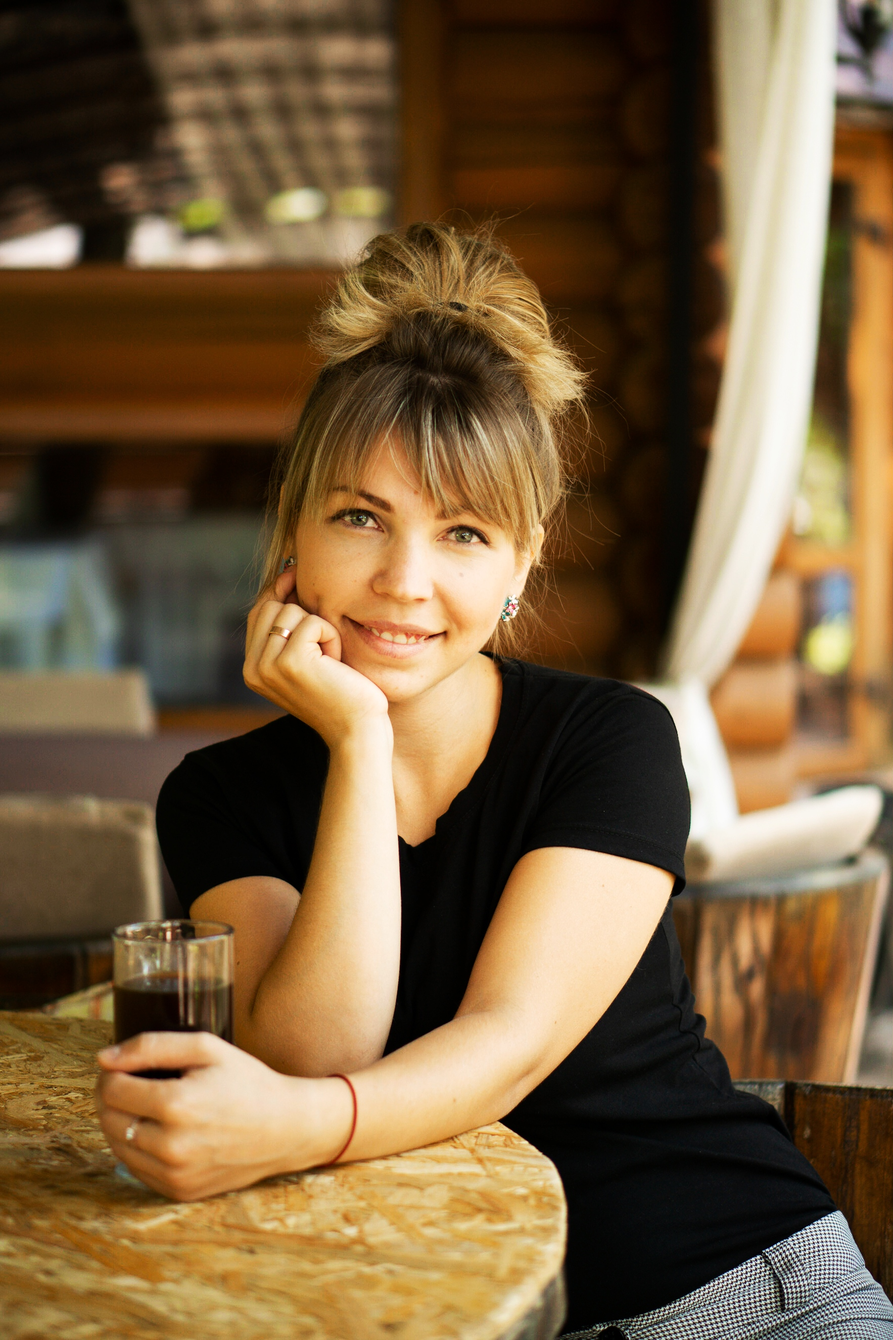
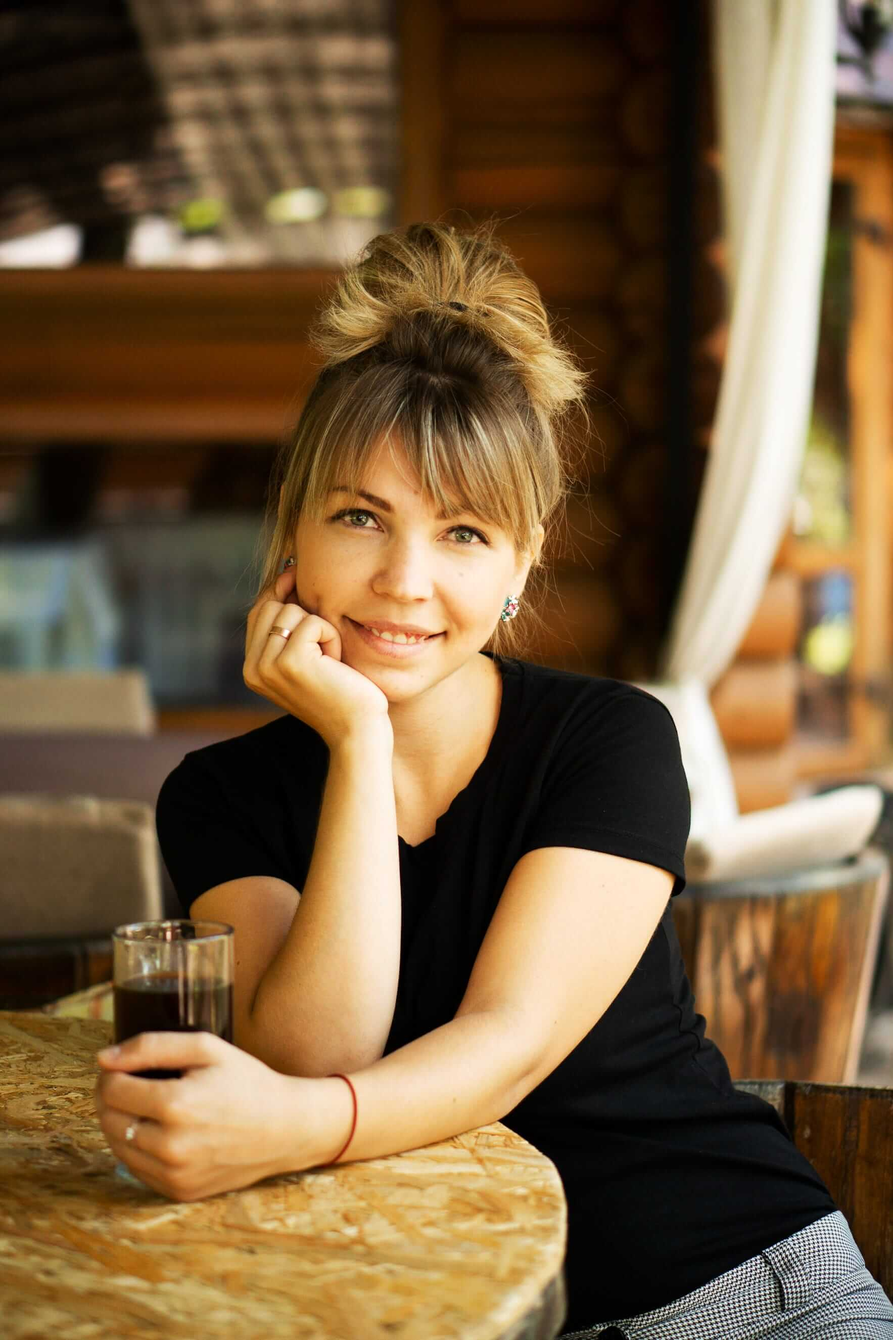
video and imgs optimization

Changed region(s): [[0.6848, 0.8974, 0.996, 1.0]]

diff --git a/css/style.min.css b/css/style.min.css
@@ -1,1 +1,1 @@
-@font-face{font-family:CODELight;src:url(../fonts/CODE_Light.otf)}body,html{font-size:14px;overflow-x:hidden;max-width:100vw;margin:0;padding:0}html{scroll-behavior:smooth}.header-block{-webkit-transition:background .2s ease-out;transition:background .2s ease-out}.header-navbar{width:100vw;display:-webkit-box;display:-ms-flexbox;display:flex}.header-socials{text-align:start;align-self:center}.header-socials-items{display:inline-flex}.header-socials-items a{padding-right:20px;color:#000;text-decoration:none}.header-socials-items i{font-size:3em;-webkit-transition:all ease .3s;transition:all ease .3s}.header-socials-items .fa-skype:focus,.header-socials-items .fa-skype:hover{color:#00aff0}.header-socials-items .fa-phone:focus,.header-socials-items .fa-phone:hover{color:#59267c}.header-socials-items .fa-envelope-o:focus,.header-socials-items .fa-envelope-o:hover{color:#d44638}.header-logo{text-align:center;font-family:CODELight;color:#6e535b;font-size:4em}.header-logo a{text-decoration:none;color:inherit;cursor:pointer}.header-languages{font-family:'Yeseva One',cursive;font-size:1em;align-self:center;text-align:end}.header-languages a{position:relative;color:#000;cursor:pointer;text-decoration:none;-webkit-transition:all ease .3s;transition:all ease .3s}.header-languages a:focus,.header-languages a:hover{color:#6e535b}.header-languages img{height:1.7em;width:auto;transition:all .3s ease}.header-languages img:hover{transform:scale(1.5)}.navbar{font-family:'Yeseva One',cursive;font-size:1.6em;padding-bottom:10px}.navbar-nav a{position:relative;color:#000;cursor:pointer;text-decoration:none}.navbar-nav a:after{display:block;position:absolute;top:50px;left:50%;-webkit-transform:translateX(-50%);transform:translateX(-50%);width:0;height:2px;background-color:#6e535b;content:"";-webkit-transition:.4s ease-in;transition:.4s ease-in}.navbar-nav a:hover{color:#6e535b}.navbar-nav a:hover::after{width:100%}.navbar-nav a.active{color:#6e535b}.navbar-nav a.active:after{display:block;position:absolute;top:50px;left:50%;-webkit-transform:translateX(-50%);transform:translateX(-50%);height:2px;background-color:#6e535b;content:"";-webkit-transition:.4s ease-in;transition:.4s ease-in;width:100%}.fa-align-justify{font-size:1.8em;line-height:1.8em}.home{display:grid;cursor:default;background-image:url(../img/bg.jpg);background-attachment:fixed;background-position:center;background-size:cover;height:100vh}.home-content{padding:100px;display:grid;justify-items:center;-ms-flex-line-pack:center;align-content:center}.home-content h3{text-align:center;font-size:10em;color:#6e535b;font-family:CODELight;text-transform:uppercase}.home-content h1{text-align:center;font-size:3em;color:#6e535b;font-family:Ubuntu,sans-serif}.about-me{display:grid;background-position:left bottom;background-size:cover;background-color:#f3eeee;min-height:100vh;width:100vw}.about-me-container{-ms-flex-line-pack:center;align-content:center;-webkit-box-align:center;-ms-flex-align:center;align-items:center;justify-self:center}.about-me-container strong{font-weight:900;font-size:1.1em}.about-me-photo{-webkit-box-pack:center;-ms-flex-pack:center;justify-content:center;padding:50px 0;align-self:center}.about-me-photo img{border-radius:50%;width:100%}.about-me-content{font-size:1.5em;color:#000;font-family:Ubuntu,sans-serif;text-align:justify}.about-me-content h2{font-family:'Yeseva One',cursive;color:#6e535b;text-align:center;padding:75px 0;font-size:2.5em}.about-me-content p{overflow-y:hidden}.advantages{display:grid;background-image:url(../img/bg.jpg);background-position:left bottom;background-size:cover;background-color:#f3eeee;min-height:100vh;width:100vw}.advantages-container{padding:0;margin:0;display:grid;grid-template-columns:1fr 1fr}.advantages-container-photo{width:50vw;height:auto;padding:0;margin:0}.advantages-container-photo img{max-width:100%;max-height:100%;height:-moz-available;height:-webkit-fill-available;height:fill-available;float:right;border-left:5px solid #6e535b}.advantages-container-content{align-content:center}.advantages-container-content-list{list-style:none;display:grid;grid-template-rows:repeat(6,1fr)}.advantages-container-content-list p{color:#000;font-family:Ubuntu,sans-serif;font-size:1.5em}.for-whom{display:grid;background-position:left bottom;background-color:#f3eeee;background-size:cover;min-height:100vh;width:100vw}.for-whom-content{-webkit-box-pack:justify;-ms-flex-pack:justify;justify-content:space-between;text-align:justify;display:-webkit-inline-box;display:-ms-inline-flexbox;display:inline-flex;-webkit-box-align:center;-ms-flex-align:center;align-items:center;-ms-flex-item-align:center;align-self:center;padding:50px 70px;-webkit-transition:ease-in .5s;transition:ease-in .5s}.for-whom-content:focus,.for-whom-content:hover{background-color:#fff;cursor:pointer;-webkit-transform:scale(1.1,1.1);transform:scale(1.1,1.1)}.for-whom-container h3{text-align:center;font-family:'Yeseva One',cursive;color:#6e535b;font-size:3em}.for-whom-container span{text-align:center;color:#000;font-family:Ubuntu,sans-serif;font-size:1.7em}.for-whom-ico{display:grid;-webkit-box-pack:center;-ms-flex-pack:center;justify-content:center;align-self:center;font-size:14em;padding:inherit}.how-we-work{background-image:url(../img/bg.jpg);background-position:left bottom;background-color:#f3eeee;background-size:cover;min-height:100vh;width:100vw}.how-we-work-container{display:grid;grid-template-columns:1fr 1fr}.how-we-work-container-photo{width:50vw;height:auto;padding:0;margin:0}.how-we-work-container-photo img{max-width:100%;max-height:100%;height:-moz-available;height:-webkit-fill-available;height:fill-available;border-right:5px solid #6e535b}.how-we-work-container-content{align-content:center}.how-we-work-container-content-list{list-style:none;display:grid;grid-template-rows:repeat(6,1fr)}.how-we-work-container-content-list h3{font-family:'Yeseva One',cursive;color:#6e535b;font-size:2.2em}.how-we-work-container-content-list p{color:#000;font-family:Ubuntu,sans-serif;font-size:1.5em}.feedback{display:grid;background-position:left bottom;background-size:cover;background-color:#f3eeee;min-height:100vh;width:100vw}.feedback-content{-webkit-box-pack:justify;-ms-flex-pack:justify;justify-content:space-between;text-align:justify;display:-webkit-inline-box;display:-ms-inline-flexbox;display:inline-flex;-webkit-box-align:center;-ms-flex-align:center;align-items:center;-ms-flex-item-align:center;align-self:center;padding:50px 75px;-webkit-transition:ease-in .5s;transition:ease-in .5s}.feedback-content:focus,.feedback-content:hover{background-color:#fff;cursor:pointer;-webkit-transform:scale(1.1,1.1);transform:scale(1.1,1.1);z-index:999}.feedback-container h3{text-align:center;font-family:'Yeseva One',cursive;color:#6e535b;font-size:2.5em}.feedback-container span{text-align:center;color:#000;font-family:Ubuntu,sans-serif;font-size:1.3em;font-style:italic}.feedback-container img{width:75%;height:auto;border-right:3px solid #6e535b;border-radius:50%}.feedback-img{border-left:5px solid #6e535b;text-align:center}.price{display:grid;background-image:url(../img/bg.jpg);background-position:left bottom;background-size:cover;background-color:#f3eeee;width:100vw}.price-container{padding:50px 20px;list-style:none}.price-content{padding-top:20px;padding-bottom:20px}.price-content:focus .price-thumbnail,.price-content:hover .price-thumbnail{background-color:#6e535b;color:#fff;-webkit-transform:scale(1.1,1.1);transform:scale(1.1,1.1);z-index:999}.price-thumbnail{background-color:#6e535b;text-align:center;-webkit-transition:all ease .4s;transition:all ease .4s;margin:0;padding:0;border:0;border-radius:20px}.price-thumbnail-content{background-color:#6e535b;font-family:'Yeseva One',cursive;padding:0;border-radius:20px;border-bottom-left-radius:0;border-bottom-right-radius:0;color:#fff}.price-thumbnail h4{margin:20px;padding-bottom:40px;color:#deb887;border-bottom:1px solid #fff;font-size:6em;font-family:'Yeseva One',cursive}.price-thumbnail h3{padding:20px 0;font-size:2em}.price-thumbnail h5{color:#deb887;padding:20px 0;font-size:2.5em}.price-thumbnail p{padding:10px 0;font-size:2em}.price-thumbnail-button{padding:10px 0}.price-thumbnail button{font-family:'Yeseva One',cursive;background-color:#fff;color:#6e535b;height:50px;-webkit-transition:all ease .2s;transition:all ease .2s}.price-thumbnail button:focus,.price-thumbnail button:hover{-webkit-transform:scale(1.1,1.1);transform:scale(1.1,1.1);background-color:#deb887;cursor:pointer}.contact{display:grid;background-position:left bottom;background-size:cover;background-color:#f3eeee;width:100vw}.contact-container{padding-bottom:50px}.contact-article{font-size:2em;font-family:Ubuntu,sans-serif;text-align:center;padding-bottom:50px}.contact-social{align-self:center;font-family:Ubuntu,sans-serif}.contact-social .col-4,.contact-social .col-md-12{display:grid;padding:20px}.contact-social i{justify-self:center;font-size:4em}.contact-social span{justify-self:center;font-size:1.2em}.contact-social .fa-skype{color:#00aff0}.contact-social .fa-phone{color:#59267c}.contact-social .fa-envelope-o{color:#d44638}.contact-form{align-self:center;font-family:'Yeseva One',cursive}.contact-form label{font-size:1.2em}.contact-form input{line-height:3em}.contact-form textarea{height:auto;resize:none}.contact-form button{line-height:2em;float:right;font-family:'Yeseva One',cursive;background-color:#6e535b;color:#fff;-webkit-transition:all ease .3s;transition:all ease .3s}.contact-form button:focus,.contact-form button:hover{background-color:#fff;color:#6e535b;-webkit-transform:scale(1.1,1.1);transform:scale(1.1,1.1)}.contact-form a{text-decoration:none;color:inherit}.result{line-height:1.5em;height:50px;font-family:'Yeseva One',cursive;-webkit-transition:all ease .3s;transition:all ease .3s}.footer{background-color:#f3eeee;color:#6e535b;padding:15px}.footer div{-ms-flex-item-align:center;align-self:center}.footer span{padding:30px 10px;font-size:1.2em}.footer a{text-decoration:none;cursor:pointer;color:inherit}.footer a:hover{color:#ecc188}.header{display:grid;-webkit-box-pack:center;-ms-flex-pack:center;justify-content:center;font-family:'Yeseva One',cursive;color:#6e535b;padding:75px 0;text-align:center}.header h2{font-size:2.5em}.separator{-webkit-box-pack:center;-ms-flex-pack:center;justify-content:center;background-color:#fff;margin-bottom:0}.separator h4{-ms-flex-item-align:end;align-self:flex-end;text-align:center;color:#6e535b;font-family:'Yeseva One',cursive;font-size:2.1em}.separator p{color:#000;font-family:Ubuntu,sans-serif;font-style:italic;opacity:.8;font-size:1.5em;text-align:center}.free-lesson{-ms-flex-item-align:center;align-self:center;justify-self:center;text-align:center}.free-lesson button{height:75px;width:auto;font-family:'Yeseva One',cursive;background-color:#6e535b;color:#fff;font-size:1.5em;border-radius:10px;-webkit-transition:all ease .3s;transition:all ease .3s;margin:50px 0}.free-lesson button:focus,.free-lesson button:hover{cursor:pointer;background-color:#fff;color:#6e535b;-webkit-transform:scale(1.1,1.1);transform:scale(1.1,1.1)}blockquote{margin:0;background:#fff;color:#000;padding:30px 30px 30px 90px;position:relative;border-left:5px solid #6e535b}blockquote:before{content:"\201C";font-family:serif;position:absolute;left:20px;top:20px;color:#fff;background:#6e535b;width:50px;height:50px;border-radius:50%;font-size:3em;text-align:center}@media (min-width:992px) and (max-width:1199px){.navbar{font-size:1.7em}}@media (min-width:768px) and (max-width:991px){.navbar{font-size:1.1em}.advantages-container span{font-size:1.3em;margin:0}.how-we-work-ico{font-size:10em;padding:10px}.how-we-work-thumbnails h3{font-size:1.7em}.how-we-work-thumbnails p{color:#000;font-family:Ubuntu,sans-serif;font-size:1.3em}.price-thumbnail h4{font-size:4.5em}.price-thumbnail h3{font-size:1.8em}.price-thumbnail h5{font-size:2.2em}.price-thumbnail p{font-size:1.8em}}@media (min-width:320px) and (max-width:767px){.navbar{font-size:1.2em}.header-logo{font-size:2em;align-self:center}.header-socials a{font-size:.6em}.header-socials p{font-size:1em;margin:0}.header-socials-items{font-size:1.2em;display:inline-flex;justify-content:space-evenly;padding:inherit}.header-socials-items a{padding-right:0}.header-languages{font-size:.8em}.header-languages img{height:2em}.home{background-attachment:scroll}.home-content h1{text-align:center;font-size:2em;color:#6e535b;font-family:Ubuntu,sans-serif}.home-content{padding:0}.home-content h3{font-size:5em}.about-me-photo{padding-bottom:20px}.advantages-container{text-align:center;display:grid;grid-template-columns:1fr}.advantages-container span{margin:10px;font-size:1.3em}.advantages-container-photo{display:none}.for-whom-content{padding:20px 20px}.for-whom-container h2{font-size:2em}.for-whom-container span{font-size:1.3em}.for-whom-ico{display:none}.how-we-work-container{display:grid;grid-template-columns:1fr;text-align:center}.how-we-work-container-photo{display:none}.feedback-content{padding:10px 30px}.contact-social i{justify-self:center;font-size:3em}.contact-social span{justify-self:center;font-size:1em}.footer div{text-align:center!important}.separator h2{font-size:2em}.separator p{font-size:1em}.free-lesson button{font-size:1.2em;height:75px;width:75vw}}
+@font-face{font-family:CODELight;src:url(../fonts/CODE_Light.otf)}body,html{font-size:14px;overflow-x:hidden;max-width:100vw;margin:0;padding:0}html{scroll-behavior:smooth}.header-block{-webkit-transition:background .2s ease-out;transition:background .2s ease-out}.header-navbar{width:100vw;display:-webkit-box;display:-ms-flexbox;display:flex}.header-socials{text-align:start;align-self:center}.header-socials-items{display:inline-flex}.header-socials-items a{padding-right:20px;color:#000;text-decoration:none}.header-socials-items i{font-size:3em;-webkit-transition:all ease .3s;transition:all ease .3s}.header-socials-items .fa-skype:focus,.header-socials-items .fa-skype:hover{color:#00aff0}.header-socials-items .fa-phone:focus,.header-socials-items .fa-phone:hover{color:#59267c}.header-socials-items .fa-envelope-o:focus,.header-socials-items .fa-envelope-o:hover{color:#d44638}.header-logo{text-align:center;font-family:CODELight;color:#6e535b;font-size:4em}.header-logo a{text-decoration:none;color:inherit;cursor:pointer}.header-languages{font-family:'Yeseva One',cursive;font-size:1em;align-self:center;text-align:end}.header-languages a{position:relative;color:#000;cursor:pointer;text-decoration:none;-webkit-transition:all ease .3s;transition:all ease .3s}.header-languages a:focus,.header-languages a:hover{color:#6e535b}.header-languages img{height:1.7em;width:auto;transition:all .3s ease}.header-languages img:hover{transform:scale(1.5)}.navbar{font-family:'Yeseva One',cursive;font-size:1.6em;padding-bottom:10px}.navbar-nav a{position:relative;color:#000;cursor:pointer;text-decoration:none}.navbar-nav a:after{display:block;position:absolute;top:50px;left:50%;-webkit-transform:translateX(-50%);transform:translateX(-50%);width:0;height:2px;background-color:#6e535b;content:"";-webkit-transition:.4s ease-in;transition:.4s ease-in}.navbar-nav a:hover{color:#6e535b}.navbar-nav a:hover::after{width:100%}.navbar-nav a.active{color:#6e535b}.navbar-nav a.active:after{display:block;position:absolute;top:50px;left:50%;-webkit-transform:translateX(-50%);transform:translateX(-50%);height:2px;background-color:#6e535b;content:"";-webkit-transition:.4s ease-in;transition:.4s ease-in;width:100%}.fa-align-justify{font-size:1.8em;line-height:1.8em}.home{display:grid;cursor:default;background-image:url(../img/bg.jpg);background-attachment:fixed;background-position:center;background-size:cover;height:100vh}.home-content{padding:100px;display:grid;justify-items:center;-ms-flex-line-pack:center;align-content:center}.home-content h3{text-align:center;font-size:10em;color:#6e535b;font-family:CODELight;text-transform:uppercase}.home-content h1{text-align:center;font-size:3em;color:#6e535b;font-family:Ubuntu,sans-serif}.about-me{display:grid;background-position:left bottom;background-size:cover;background-color:#f3eeee;min-height:100vh;width:100vw}.about-me-container{-ms-flex-line-pack:center;align-content:center;-webkit-box-align:center;-ms-flex-align:center;align-items:center;justify-self:center}.about-me-container strong{font-weight:900;font-size:1.1em}.about-me-photo{-webkit-box-pack:center;-ms-flex-pack:center;justify-content:center;padding:50px 0;align-self:center}.about-me-photo img{border-radius:50%;width:100%}.about-me-content{font-size:1.5em;color:#000;font-family:Ubuntu,sans-serif;text-align:justify}.about-me-content h2{font-family:'Yeseva One',cursive;color:#6e535b;text-align:center;padding:75px 0;font-size:2.5em}.about-me-content p{overflow-y:hidden}.advantages{display:grid;background-image:url(../img/bg.jpg);background-position:left bottom;background-size:cover;background-color:#f3eeee;min-height:100vh;width:100vw}.advantages-container{padding:0;margin:0;display:grid;grid-template-columns:1fr 1fr}.advantages-container-photo{width:50vw;height:auto;padding:0;margin:0}.advantages-container-photo img{max-width:100%;max-height:100%;height:-moz-available;height:-webkit-fill-available;height:fill-available;float:right;border-left:5px solid #6e535b}.advantages-container-content{align-content:center}.advantages-container-content-list{list-style:none;display:grid;grid-template-rows:repeat(6,1fr)}.advantages-container-content-list p{color:#000;font-family:Ubuntu,sans-serif;font-size:1.5em}.for-whom{display:grid;background-position:left bottom;background-color:#f3eeee;background-size:cover;min-height:100vh;width:100vw}.for-whom-content{-webkit-box-pack:justify;-ms-flex-pack:justify;justify-content:space-between;text-align:justify;display:-webkit-inline-box;display:-ms-inline-flexbox;display:inline-flex;-webkit-box-align:center;-ms-flex-align:center;align-items:center;-ms-flex-item-align:center;align-self:center;padding:50px 70px;-webkit-transition:ease-in .5s;transition:ease-in .5s}.for-whom-content:focus,.for-whom-content:hover{background-color:#fff;cursor:pointer;-webkit-transform:scale(1.1,1.1);transform:scale(1.1,1.1)}.for-whom-container h3{text-align:center;font-family:'Yeseva One',cursive;color:#6e535b;font-size:3em}.for-whom-container span{text-align:center;color:#000;font-family:Ubuntu,sans-serif;font-size:1.7em}.for-whom-ico{display:grid;-webkit-box-pack:center;-ms-flex-pack:center;justify-content:center;align-self:center;font-size:14em;padding:inherit}.how-we-work{background-image:url(../img/bg.jpg);background-position:left bottom;background-color:#f3eeee;background-size:cover;min-height:100vh;width:100vw}.how-we-work-container{display:grid;grid-template-columns:1fr 1fr}.how-we-work-container-photo{width:50vw;height:auto;padding:0;margin:0}.how-we-work-container-photo img{max-width:100%;max-height:100%;height:-moz-available;height:-webkit-fill-available;height:fill-available;border-right:5px solid #6e535b}.how-we-work-container-content{align-content:center}.how-we-work-container-content-list{list-style:none;display:grid;grid-template-rows:repeat(6,1fr)}.how-we-work-container-content-list h3{font-family:'Yeseva One',cursive;color:#6e535b;font-size:2.2em}.how-we-work-container-content-list p{color:#000;font-family:Ubuntu,sans-serif;font-size:1.5em}.feedback{display:grid;background-position:left bottom;background-size:cover;background-color:#f3eeee;min-height:100vh;width:100vw}.feedback-content{-webkit-box-pack:justify;-ms-flex-pack:justify;justify-content:space-between;text-align:justify;display:-webkit-inline-box;display:-ms-inline-flexbox;display:inline-flex;-webkit-box-align:center;-ms-flex-align:center;align-items:center;-ms-flex-item-align:center;align-self:center;padding:50px 75px;-webkit-transition:ease-in .5s;transition:ease-in .5s}.feedback-content:focus,.feedback-content:hover{background-color:#fff;cursor:pointer;-webkit-transform:scale(1.1,1.1);transform:scale(1.1,1.1);z-index:999}.feedback-container h3{text-align:center;font-family:'Yeseva One',cursive;color:#6e535b;font-size:2.5em}.feedback-container span{text-align:center;color:#000;font-family:Ubuntu,sans-serif;font-size:1.3em;font-style:italic}.feedback-container img{width:75%;height:auto;border-right:3px solid #6e535b;border-radius:50%}.feedback-img{border-left:5px solid #6e535b;text-align:center}.price{display:grid;background-image:url(../img/bg.jpg);background-position:left bottom;background-size:cover;background-color:#f3eeee;width:100vw}.price-container{padding:50px 20px;list-style:none}.price-content{padding-top:20px;padding-bottom:20px}.price-content:focus .price-thumbnail,.price-content:hover .price-thumbnail{background-color:#6e535b;color:#fff;-webkit-transform:scale(1.1,1.1);transform:scale(1.1,1.1);z-index:999}.price-thumbnail{background-color:#6e535b;text-align:center;-webkit-transition:all ease .4s;transition:all ease .4s;margin:0;padding:0;border:0;border-radius:20px}.price-thumbnail-content{background-color:#6e535b;font-family:'Yeseva One',cursive;padding:0;border-radius:20px;border-bottom-left-radius:0;border-bottom-right-radius:0;color:#fff}.price-thumbnail h4{margin:20px;padding-bottom:40px;color:#deb887;border-bottom:1px solid #fff;font-size:6em;font-family:'Yeseva One',cursive}.price-thumbnail h3{padding:20px 0;font-size:2em}.price-thumbnail h5{color:#deb887;padding:20px 0;font-size:2.5em}.price-thumbnail p{padding:10px 0;font-size:2em}.price-thumbnail-button{padding:10px 0}.price-thumbnail button{font-family:'Yeseva One',cursive;background-color:#fff;color:#6e535b;height:50px;-webkit-transition:all ease .2s;transition:all ease .2s}.price-thumbnail button:focus,.price-thumbnail button:hover{-webkit-transform:scale(1.1,1.1);transform:scale(1.1,1.1);background-color:#deb887;cursor:pointer}.contact{display:grid;background-position:left bottom;background-size:cover;background-color:#f3eeee;width:100vw}.contact-container{padding-bottom:50px}.contact-article{font-size:2em;font-family:Ubuntu,sans-serif;text-align:center;padding-bottom:50px}.contact-social{align-self:center;font-family:Ubuntu,sans-serif}.contact-social .col-4,.contact-social .col-md-12{display:grid;padding:20px}.contact-social i{justify-self:center;font-size:4em}.contact-social span{justify-self:center;font-size:1.2em}.contact-social .fa-skype{color:#00aff0}.contact-social .fa-phone{color:#59267c}.contact-social .fa-envelope-o{color:#d44638}.contact-form{align-self:center;font-family:'Yeseva One',cursive}.contact-form label{font-size:1.2em}.contact-form input{line-height:3em}.contact-form textarea{height:auto;resize:none}.contact-form button{line-height:2em;float:right;font-family:'Yeseva One',cursive;background-color:#6e535b;color:#fff;-webkit-transition:all ease .3s;transition:all ease .3s}.contact-form button:focus,.contact-form button:hover{background-color:#fff;color:#6e535b;-webkit-transform:scale(1.1,1.1);transform:scale(1.1,1.1)}.contact-form a{text-decoration:none;color:inherit}.result{line-height:1.5em;height:50px;font-family:'Yeseva One',cursive;-webkit-transition:all ease .3s;transition:all ease .3s}.footer{background-color:#f3eeee;color:#6e535b;padding:15px}.footer div{-ms-flex-item-align:center;align-self:center}.footer span{padding:30px 10px;font-size:1.2em}.footer a{text-decoration:none;cursor:pointer;color:inherit}.footer a:hover{color:#ecc188}.header{display:grid;-webkit-box-pack:center;-ms-flex-pack:center;justify-content:center;font-family:'Yeseva One',cursive;color:#6e535b;padding:75px 0;text-align:center}.header h2{font-size:2.5em}.separator{-webkit-box-pack:center;-ms-flex-pack:center;justify-content:center;background-color:#fff;margin-bottom:0}.separator h4{-ms-flex-item-align:end;align-self:flex-end;text-align:center;color:#6e535b;font-family:'Yeseva One',cursive;font-size:2.1em}.separator p{color:#000;font-family:Ubuntu,sans-serif;font-style:italic;opacity:.8;font-size:1.5em;text-align:center}.free-lesson{-ms-flex-item-align:center;align-self:center;justify-self:center;text-align:center}.free-lesson button{height:75px;width:auto;font-family:'Yeseva One',cursive;background-color:#6e535b;color:#fff;font-size:1.5em;border-radius:10px;-webkit-transition:all ease .3s;transition:all ease .3s;margin:50px 0}.free-lesson button:focus,.free-lesson button:hover{cursor:pointer;background-color:#fff;color:#6e535b;-webkit-transform:scale(1.1,1.1);transform:scale(1.1,1.1)}blockquote{margin:0;background:#fff;color:#000;padding:30px 30px 30px 90px;position:relative;border-left:5px solid #6e535b}blockquote:before{content:"\201C";font-family:serif;position:absolute;left:20px;top:20px;color:#fff;background:#6e535b;width:50px;height:50px;border-radius:50%;font-size:3em;text-align:center}@media (min-width:992px) and (max-width:1199px){.navbar{font-size:1.7em}}@media (min-width:768px) and (max-width:991px){.navbar{font-size:1.1em}.advantages-container span{font-size:1.3em;margin:0}.how-we-work-ico{font-size:10em;padding:10px}.how-we-work-thumbnails h3{font-size:1.7em}.how-we-work-thumbnails p{color:#000;font-family:Ubuntu,sans-serif;font-size:1.3em}.price-thumbnail h4{font-size:4.5em}.price-thumbnail h3{font-size:1.8em}.price-thumbnail h5{font-size:2.2em}.price-thumbnail p{font-size:1.8em}}@media (min-width:320px) and (max-width:767px){.navbar{font-size:1.2em}.header-logo{display:none;font-size:2em;align-self:center}.header-socials a{font-size:.6em}.header-socials p{font-size:1em;margin:0}.header-socials-items{font-size:1.2em;display:inline-flex;justify-content:space-evenly;padding:inherit}.header-socials-items a{padding-right:0}.header-languages{font-size:.8em}.header-languages img{height:2em}.home{background-attachment:scroll}.home-content h1{text-align:center;font-size:2em;color:#6e535b;font-family:Ubuntu,sans-serif}.home-content{padding:0}.home-content h3{font-size:5em}.about-me-photo{padding-bottom:20px}.advantages-container{text-align:center;display:grid;grid-template-columns:1fr}.advantages-container span{margin:10px;font-size:1.3em}.advantages-container-photo{display:none}.for-whom-content{padding:20px 20px}.for-whom-container h2{font-size:2em}.for-whom-container span{font-size:1.3em}.for-whom-ico{display:none}.how-we-work-container{display:grid;grid-template-columns:1fr;text-align:center}.how-we-work-container-photo{display:none}.feedback-content{padding:10px 30px}.contact-social i{justify-self:center;font-size:3em}.contact-social span{justify-self:center;font-size:1em}#footer div{text-align:center!important}.separator h2{font-size:2em}.separator p{font-size:1em}.free-lesson button{font-size:1.2em;height:75px;width:75vw}}

diff --git a/index.html b/index.html
@@ -12,22 +12,20 @@
   <meta name="viewport" content="width=device-width, initial-scale=1">
 
   <meta property="og:image" content="https://tatalessons.tk/img/about-me-photo-2.jpg" />
-
-  <!-- FONTS -->
-  <link href="https://fonts.googleapis.com/css?family=Amatic+SC|Bad+Script|Lobster|Pacifico&display=swap"
-    rel="stylesheet">
-  <link href="https://fonts.googleapis.com/css?family=Yeseva+One&display=swap" rel="stylesheet">
-  <link href="/fonts/CODE Light.otf" rel='stylesheet' type='text/css'>
-  <link href="https://fonts.googleapis.com/css2?family=Lato&display=swap" rel="stylesheet">
-  <link href="https://fonts.googleapis.com/css2?family=Ubuntu&display=swap" rel="stylesheet">
   <!-- ICONS -->
   <link rel="stylesheet" href="https://maxcdn.bootstrapcdn.com/font-awesome/4.5.0/css/font-awesome.min.css">
   <link rel="shortcut icon" href="favicon.ico" type="image/x-icon">
   <!-- CSS -->
-  <link rel="stylesheet" href="https://maxcdn.bootstrapcdn.com/bootstrap/4.0.0/css/bootstrap.min.css"
-    integrity="sha384-Gn5384xqQ1aoWXA+058RXPxPg6fy4IWvTNh0E263XmFcJlSAwiGgFAW/dAiS6JXm" crossorigin="anonymous">
-  <!-- <link rel="stylesheet" href="https://maxcdn.bootstrapcdn.com/bootstrap/3.3.5/css/bootstrap.min.css"> -->
-  <link href="css/style.min.css" rel="stylesheet" type="text/css" />
+  <link rel="preload" href="../css/style.min.css" as="style" onload="this.onload=null;this.rel='stylesheet'">
+<noscript><link rel="stylesheet" href="../css/style.min.css"></noscript>
+<link rel="preload" href="https://maxcdn.bootstrapcdn.com/bootstrap/4.0.0/css/bootstrap.min.css" as="style" onload="this.onload=null;this.rel='stylesheet'">
+<noscript><link rel="stylesheet" href="https://maxcdn.bootstrapcdn.com/bootstrap/4.0.0/css/bootstrap.min.css"></noscript>
+    <!-- FONTS -->
+    <link href="https://fonts.googleapis.com/css?family=Amatic+SC|Bad+Script|Lobster|Pacifico&display=swap"
+    rel="stylesheet">
+  <link href="https://fonts.googleapis.com/css?family=Yeseva+One&display=swap" rel="stylesheet">
+  <link href="https://fonts.googleapis.com/css2?family=Lato&display=swap" rel="stylesheet">
+  <link href="https://fonts.googleapis.com/css2?family=Ubuntu&display=swap" rel="stylesheet">
 </head>
 
 <body id="body" data-spy="scroll" data-target=".navbar" data-offset="50">
@@ -110,7 +108,7 @@
     <article class="about-me-container container">
       <div class="row">
         <aside class="about-me-photo col-sm-12 col-md-6">
-          <img src="img/about-me-photo.png" alt="">
+          <img src="img/about-me-photo.jpg" alt="">
         </aside>
         <aside class="about-me-content col-sm-12 col-md-6">
           <h2>Хто я ?</h2>
@@ -162,7 +160,7 @@
           </ul>
         </aside>
         <aside class="about-me-photo col-sm-12 col-md-6">
-          <img src="img/about-me-photo-1.png" alt="">
+          <img src="img/about-me-photo-1.jpg" alt="">
         </aside>
       </div>
     </article>
@@ -171,8 +169,21 @@
 
   <!-- VIDEO BLOCK -->
   <section class="embed-responsive embed-responsive-16by9">
-    <iframe class="embed-responsive-item" src="https://www.youtube.com/embed/4xa1QhByqNc" autostart="false" preload="none"
-      allow="accelerometer; encrypted-media; gyroscope; picture-in-picture" controls allowfullscreen></iframe>
+    <iframe id="videoFrame" class="embed-responsive-item" src="" autostart="false"
+      preload="none" allow="accelerometer; encrypted-media; gyroscope; picture-in-picture" controls
+      allowfullscreen></iframe>
+      <script>
+        function setVideoFrame(){
+    document.getElementById('videoFrame').src="https://www.youtube.com/embed/4xa1QhByqNc";
+  }
+  if (window.addEventListener)  // W3C DOM
+    window.addEventListener('load', setVideoFrame, false);
+  else if (window.attachEvent) { // IE DOM
+    window.attachEvent('onload', setVideoFrame);
+  }else{ //NO SUPPORT, lauching right now
+    setVideoFrame();
+  }
+  </script>
   </section>
   <!-- /END OF VIDEO BLOCK -->
 
@@ -586,7 +597,7 @@
   <footer id="footer" class="footer container-fluid">
     <div class="row">
       <aside class="col-md-4 text-left">
-        <span>@2019 TaTa. Your online french teacher</span>
+        <span>@2019 BonBon Francais. Your online french teacher</span>
       </aside>
       <aside class="col-md-4 text-center">
         <span>Website is made by <a href="https://www.instagram.com/edward__t" target="_blank">Edward T</a></span>
@@ -599,6 +610,7 @@
   <!-- /END OF FOOTER -->
 
   <!-- SCRIPTS -->
+
   <script src="https://cdnjs.cloudflare.com/ajax/libs/popper.js/1.14.7/umd/popper.min.js" integrity="sha384-UO2eT0CpHqdSJQ6hJty5KVphtPhzWj9WO1clHTMGa3JDZwrnQq4sF86dIHNDz0W1" crossorigin="anonymous"></script>
   <script src="https://code.jquery.com/jquery-3.4.1.min.js" integrity="sha256-CSXorXvZcTkaix6Yvo6HppcZGetbYMGWSFlBw8HfCJo=" crossorigin="anonymous"></script>
   <script src="https://stackpath.bootstrapcdn.com/bootstrap/4.3.1/js/bootstrap.min.js" integrity="sha384-JjSmVgyd0p3pXB1rRibZUAYoIIy6OrQ6VrjIEaFf/nJGzIxFDsf4x0xIM+B07jRM" crossorigin="anonymous"></script>

diff --git a/en/index.html b/en/index.html
@@ -10,21 +10,20 @@
   <meta http-equiv="X-UA-Compatible" content="IE=edge">
   <meta name="viewport" content="width=device-width, initial-scale=1">
   <meta property="og:image" content="https://tatalessons.tk/img/about-me-photo-2.jpg" />
-  <!-- FONTS -->
-  <link href="https://fonts.googleapis.com/css?family=Amatic+SC|Bad+Script|Lobster|Pacifico&display=swap"
-    rel="stylesheet">
-  <link href="https://fonts.googleapis.com/css?family=Yeseva+One&display=swap" rel="stylesheet">
-  <link href="/fonts/CODE Light.otf" rel='stylesheet' type='text/css'>
-  <link href="https://fonts.googleapis.com/css2?family=Lato&display=swap" rel="stylesheet">
-  <link href="https://fonts.googleapis.com/css2?family=Ubuntu&display=swap" rel="stylesheet">
   <!-- ICONS -->
   <link rel="stylesheet" href="https://maxcdn.bootstrapcdn.com/font-awesome/4.5.0/css/font-awesome.min.css">
   <link rel="shortcut icon" href="favicon.ico" type="image/x-icon">
   <!-- CSS -->
-  <link rel="stylesheet" href="https://maxcdn.bootstrapcdn.com/bootstrap/4.0.0/css/bootstrap.min.css"
-    integrity="sha384-Gn5384xqQ1aoWXA+058RXPxPg6fy4IWvTNh0E263XmFcJlSAwiGgFAW/dAiS6JXm" crossorigin="anonymous">
-  <!-- <link rel="stylesheet" href="https://maxcdn.bootstrapcdn.com/bootstrap/3.3.5/css/bootstrap.min.css"> -->
-  <link href="../css/style.min.css" rel="stylesheet" type="text/css" />
+  <link rel="preload" href="../css/style.min.css" as="style" onload="this.onload=null;this.rel='stylesheet'">
+<noscript><link rel="stylesheet" href="../css/style.min.css"></noscript>
+<link rel="preload" href="https://maxcdn.bootstrapcdn.com/bootstrap/4.0.0/css/bootstrap.min.css" as="style" onload="this.onload=null;this.rel='stylesheet'">
+<noscript><link rel="stylesheet" href="https://maxcdn.bootstrapcdn.com/bootstrap/4.0.0/css/bootstrap.min.css"></noscript>
+    <!-- FONTS -->
+    <link href="https://fonts.googleapis.com/css?family=Amatic+SC|Bad+Script|Lobster|Pacifico&display=swap"
+    rel="stylesheet">
+  <link href="https://fonts.googleapis.com/css?family=Yeseva+One&display=swap" rel="stylesheet">
+  <link href="https://fonts.googleapis.com/css2?family=Lato&display=swap" rel="stylesheet">
+  <link href="https://fonts.googleapis.com/css2?family=Ubuntu&display=swap" rel="stylesheet">
 </head>
 
 <body id="body" data-spy="scroll" data-target=".navbar" data-offset="50">
@@ -164,13 +163,25 @@ good, the eternal. Since then, I have been working exclusively on Skype.
   </section>
   <!-- /END OF ABOUT ME PAGE -->
 
-  <!-- VIDEO BLOCK -->
-  <section class="embed-responsive embed-responsive-16by9">
-    <iframe class="embed-responsive-item" src="https://www.youtube.com/embed/4xa1QhByqNc" autostart="false"
-      preload="none" allow="accelerometer; encrypted-media; gyroscope; picture-in-picture" controls
-      allowfullscreen></iframe>
-  </section>
-  <!-- /END OF VIDEO BLOCK -->
+<!-- VIDEO BLOCK -->
+<section class="embed-responsive embed-responsive-16by9">
+  <iframe id="videoFrame" class="embed-responsive-item" src="" autostart="false"
+    preload="none" allow="accelerometer; encrypted-media; gyroscope; picture-in-picture" controls
+    allowfullscreen></iframe>
+    <script>
+      function setVideoFrame(){
+  document.getElementById('videoFrame').src="https://www.youtube.com/embed/4xa1QhByqNc";
+}
+if (window.addEventListener)  // W3C DOM
+  window.addEventListener('load', setVideoFrame, false);
+else if (window.attachEvent) { // IE DOM
+  window.attachEvent('onload', setVideoFrame);
+}else{ //NO SUPPORT, lauching right now
+  setVideoFrame();
+}
+</script>
+</section>
+<!-- /END OF VIDEO BLOCK -->
 
   <!-- ADVANTAGES PAGE -->
 
@@ -600,8 +611,8 @@ good, the eternal. Since then, I have been working exclusively on Skype.
   <!-- FOOTER -->
   <footer id="footer" class="footer container-fluid">
     <div class="row">
-      <aside class="col-md-4 text-left">
-        <span>@2019 TaTa. Your online french teacher</span>
+      <aside class="col-md-4 text-left"> 
+        <span>@2019 BonBon Francais. Your online french teacher</span>
       </aside>
       <aside class="col-md-4 text-center">
         <span>Website is made by <a href="https://www.instagram.com/edward__t" target="_blank">Edward T</a></span>

diff --git a/scripts/layout.min.js b/scripts/layout.min.js
@@ -1,1 +1,1 @@
-!function(){window.addEventListener("scroll",function(){let e=document.getElementById("header-block"),t=document.getElementById("header-block"),n=document.getElementById("header-panel");for(let t=0;t<=100;t+=10)pageYOffset>=document.documentElement.clientHeight/(100/t)&&(e.style.background=`rgba(255, 255, 255, 0.${t/10})`,n.style.opacity=`.${90-t}`),pageYOffset>=document.documentElement.clientHeight-e.offsetHeight&&(e.style.background="rgba(255, 255, 255, 1)");for(let e=0;e<=n.offsetHeight;e+=10)pageYOffset>=document.documentElement.clientHeight/(100/e)&&(t.style.top=`-${e}px`)});let e=document.querySelector("#btt"),t=document.querySelector("#home");e.addEventListener("click",e=>{e.preventDefault(),t.scrollIntoView()});const n=document.querySelector("#contact-form"),o=document.getElementById("message");document.querySelectorAll(".free-lesson-btn").forEach(e=>{e.addEventListener("click",e=>{e.preventDefault(),o.value="Доброго дня, я б хотів(-ла) отримати безкоштовний урок французької.",n.scrollIntoView()})});let l=document.querySelector("#one-hour-btn"),c=document.querySelector("#five-hour-btn"),r=document.querySelector("#ten-hour-btn");l.addEventListener("click",e=>{e.preventDefault(),o.value="Доброго дня, я б хотів(-ла) замовити один урок французької.",n.scrollIntoView()}),c.addEventListener("click",e=>{e.preventDefault(),o.value="Доброго дня, я б хотів(-ла) замовити п'ять уроків французької із економією 10€.",n.scrollIntoView()}),r.addEventListener("click",e=>{e.preventDefault(),o.value="Доброго дня, я б хотів(-ла) замовити десять уроків французької із економією 40€.",n.scrollIntoView()});const u=document.querySelector("#submit"),d=document.querySelector(".result"),i=()=>{d.innerHTML=""};u.addEventListener("click",e=>{e.preventDefault,setTimeout(i,5e3)})}();
+!function(){window.addEventListener("scroll",function(){let e=document.getElementById("header-block"),t=document.getElementById("header-block"),n=document.getElementById("header-panel");for(let t=0;t<=100;t+=10)pageYOffset>=document.documentElement.clientHeight/(100/t)&&(e.style.background=`rgba(243, 238, 238, 0.${t/10})`,n.style.opacity=`.${90-t}`),pageYOffset>=document.documentElement.clientHeight-e.offsetHeight&&(e.style.background="rgba(243, 238, 238, 1)");for(let e=0;e<=n.offsetHeight;e+=10)pageYOffset>=document.documentElement.clientHeight/(100/e)&&(t.style.top=`-${e}px`)});let e=document.querySelector("#btt"),t=document.querySelector("#home");e.addEventListener("click",e=>{e.preventDefault(),t.scrollIntoView()});const n=document.querySelector("#contact-form"),o=document.getElementById("message");document.querySelectorAll(".free-lesson-btn").forEach(e=>{e.addEventListener("click",e=>{e.preventDefault(),o.value="Доброго дня, я б хотів(-ла) отримати безкоштовний урок французької.",n.scrollIntoView()})});let l=document.querySelector("#one-hour-btn"),c=document.querySelector("#five-hour-btn"),r=document.querySelector("#ten-hour-btn");l.addEventListener("click",e=>{e.preventDefault(),o.value="Доброго дня, я б хотів(-ла) замовити один урок французької.",n.scrollIntoView()}),c.addEventListener("click",e=>{e.preventDefault(),o.value="Доброго дня, я б хотів(-ла) замовити п'ять уроків французької із економією 10€.",n.scrollIntoView()}),r.addEventListener("click",e=>{e.preventDefault(),o.value="Доброго дня, я б хотів(-ла) замовити десять уроків французької із економією 40€.",n.scrollIntoView()});const u=document.querySelector("#submit"),d=document.querySelector(".result"),i=()=>{d.innerHTML=""};u.addEventListener("click",e=>{e.preventDefault,setTimeout(i,5e3)})}();

diff --git a/css/style.css b/css/style.css
@@ -745,6 +745,7 @@ blockquote:before {
 		font-size: 1.2em;
 	}
 	.header-logo {
+		display: none;
 		font-size: 2em;
 		align-self: center;
 	}
@@ -831,7 +832,7 @@ blockquote:before {
 		justify-self: center;
 		font-size: 1em;
 	}
-	.footer div {
+	footer>div{
 		text-align: center !important;
 	}
 	.separator h2 {

diff --git a/scripts/layout.js b/scripts/layout.js
@@ -84,4 +84,5 @@
         e.preventDefault;
         setTimeout(zalupa, 5000);
     })
+
 }())
